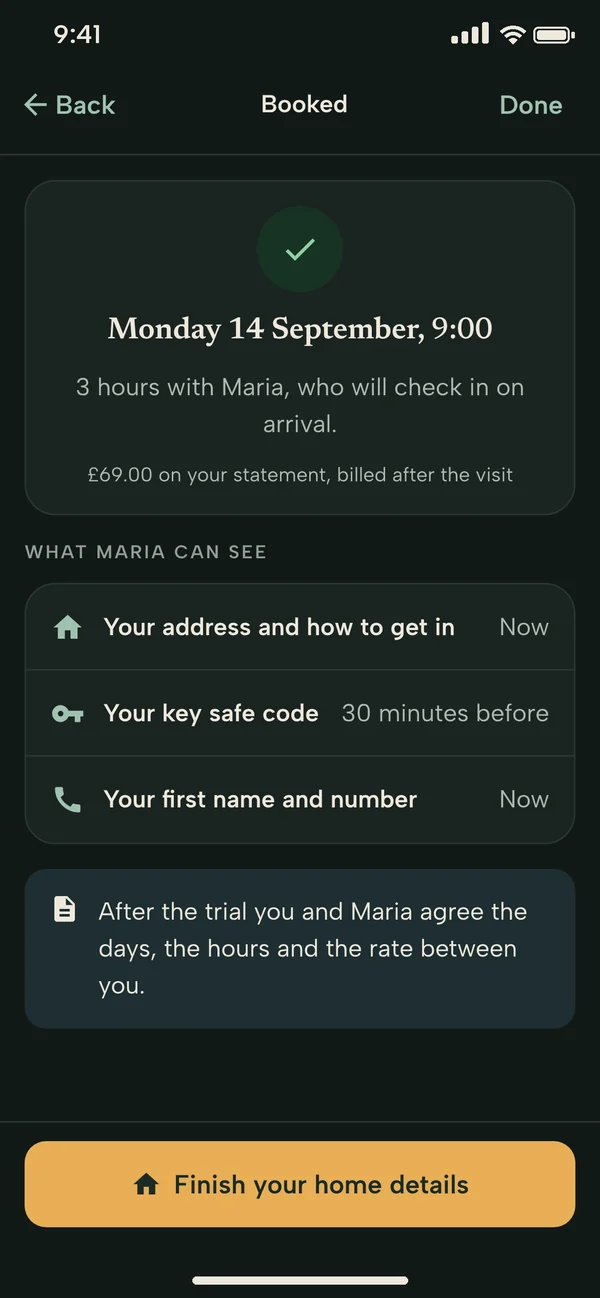
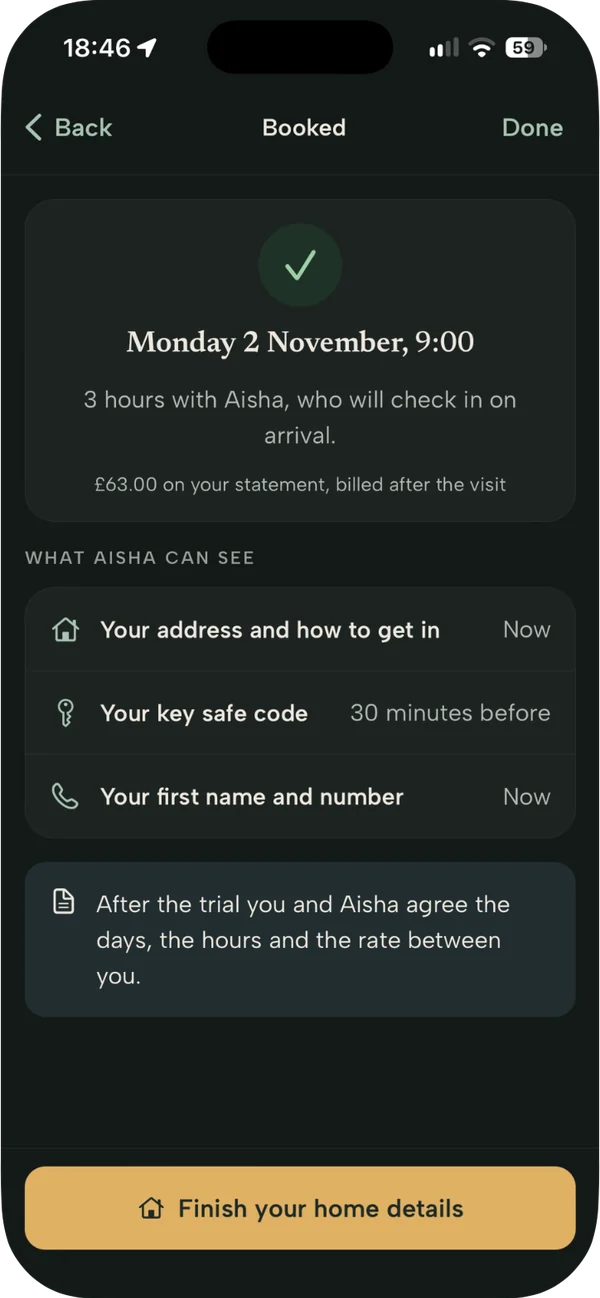
Booking-confirmed screens captured on device (build 9, booking fix)
Claude-Session: https://claude.ai/code/session_013e3Hp2MHyUoYkRtrAaXuMy

diff --git a/src/pages/households.html b/src/pages/households.html
@@ -41,7 +41,7 @@
       </div>
       <div class="feature-media two">
         {{phone:h_book|Book a trial clean: Monday at 9:00 for three hours, with the visit total.}}
-        {{phone:h_confirmed|Booked: Monday 14 September at 9:00, and what Maria can see before she arrives.}}
+        {{phone:h_confirmed|Booked: Monday 2 November at 9:00 with Aisha, and what she can see before she arrives.}}
       </div>
     </div>
 
